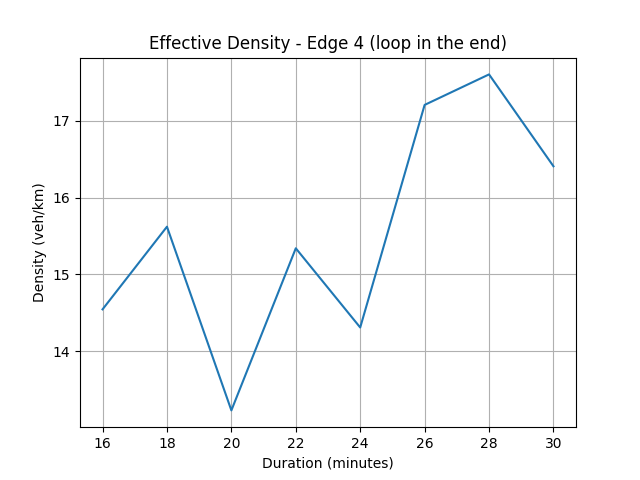
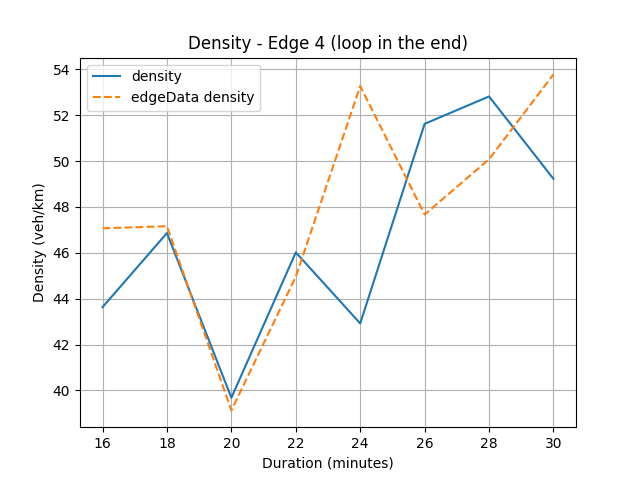
Loop detectors: fix densities

diff --git a/lab3/loop_detector/density.py b/lab3/loop_detector/density.py
@@ -23,6 +23,21 @@ def extractMeanFeature(data,feature, detectors):
 
     return times
 
+def fetch_edge_attrs(data, edge_id, attrs):
+    values = {}
+    intervals = data.findall('interval')
+    for interval in intervals:
+        end = float(interval.get('end'))
+        if (end / 60) >= 15: # warmup check
+            for edge in interval:
+                if edge.get('id') == edge_id:
+                    for attr in attrs:
+                        if not attr in values:
+                            values[attr] = []
+                        if edge.get(attr) is not None:
+                            values[attr].append(float(edge.get(attr)))
+    return values
+
 def edge_density(data):
     detectors = ['il1','il2','il3']
 
@@ -35,8 +50,13 @@ def edge_density(data):
     densities = flows / speeds
 
     p_a = np.sum(densities,1)
-    effective_densities = p_a/len(detectors)
+    effective_densities = p_a#/len(detectors)
     return [effective_densities, time_intervals]
+
+def extract_and_plot_edge_density(xs):
+    xml = ET.parse(file2)
+    space_mean_speed = fetch_edge_attrs(xml.getroot(), 'link4', ['density'])['density']
+    plt.plot(xs, space_mean_speed, label="edgeData density", linestyle='dashed')
 
 if __name__ == "__main__":
     file = sys.argv[1]
@@ -44,11 +64,16 @@ if __name__ == "__main__":
     data = tree.getroot()
 
     ed_densities, t_intervals = edge_density(data)
-    plt.plot(t_intervals, ed_densities)
+    plt.plot(t_intervals, ed_densities, label="density")
 
-    plt.title('Effective Density - Edge 4 (loop in the end)')
+    file2 = sys.argv[2]
+
+    extract_and_plot_edge_density(t_intervals)
+
+    plt.title('Density - Edge 4 (loop in the end)')
     plt.xlabel('Duration (minutes)')
     plt.ylabel('Density (veh/km)')
     plt.grid(True)
+    plt.legend()
     plt.show()
 
